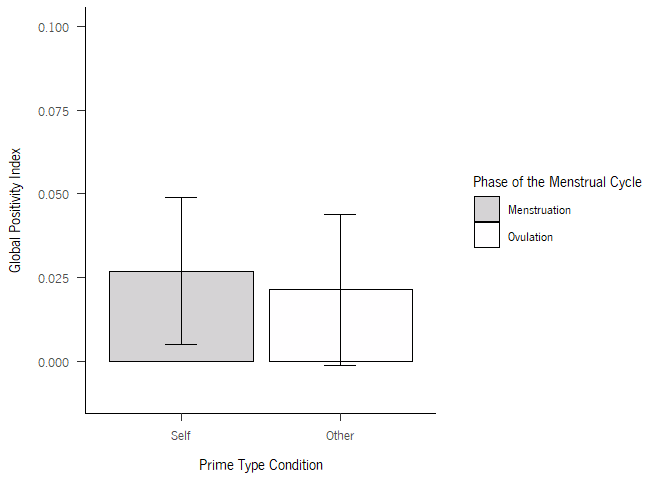
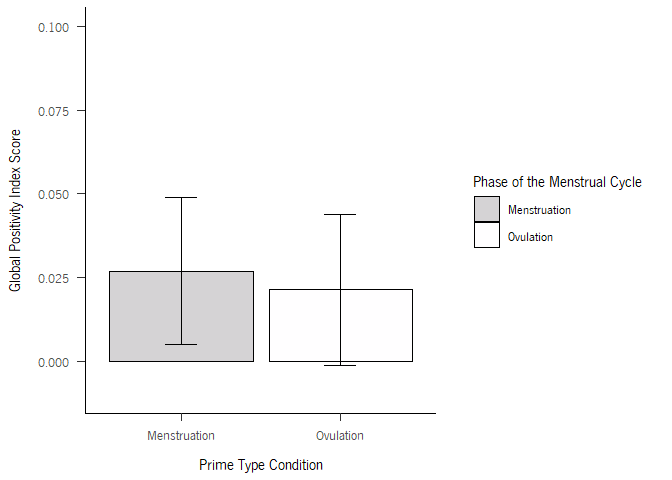
Add files via upload

Changed region(s): [[0.0, 0.25, 0.0312, 0.625], [0.2188, 0.875, 0.3125, 0.9375], [0.4688, 0.875, 0.5312, 0.9375]]

diff --git a/self_esteem.md b/self_esteem.md
@@ -31,7 +31,7 @@ library(sjPlot)
 
     ## Warning: package 'sjPlot' was built under R version 4.2.3
 
-    ## Learn more about sjPlot with 'browseVignettes("sjPlot")'.
+    ## Install package "strengejacke" from GitHub (`devtools::install_github("strengejacke/strengejacke")`) to load all sj-packages at once!
 
 ``` r
 brutos = data$`Dados_brutos (3)`
@@ -1972,7 +1972,7 @@ ggplot(df_index2, aes(x = phase, y = value, fill = phase)) +
   geom_bar(stat = "identity", position = position_dodge(0.9), color = "black", size = 0.5) +
   scale_fill_manual(values = c(my_color, my_color2), labels=c('Menstruation', 'Ovulation')) +
   geom_errorbar(aes(ymin = value - se, ymax = value + se), width = 0.2, position = position_dodge(0.9)) +
-  theme_apa() + scale_x_discrete(labels = c("Self","Other")) + labs(fill = "Phase of the Menstrual Cycle") + xlab("Prime Type Condition") + ylab("Global Positivity Index") + ylim(-0.01,0.1)
+  theme_apa() + scale_x_discrete(labels = c("Menstruation","Ovulation")) + labs(fill = "Phase of the Menstrual Cycle") + xlab("Prime Type Condition") + ylab("Global Positivity Index Score") + ylim(-0.01,0.1)
 ```
 
     ## Warning: Using `size` aesthetic for lines was deprecated in ggplot2 3.4.0.
